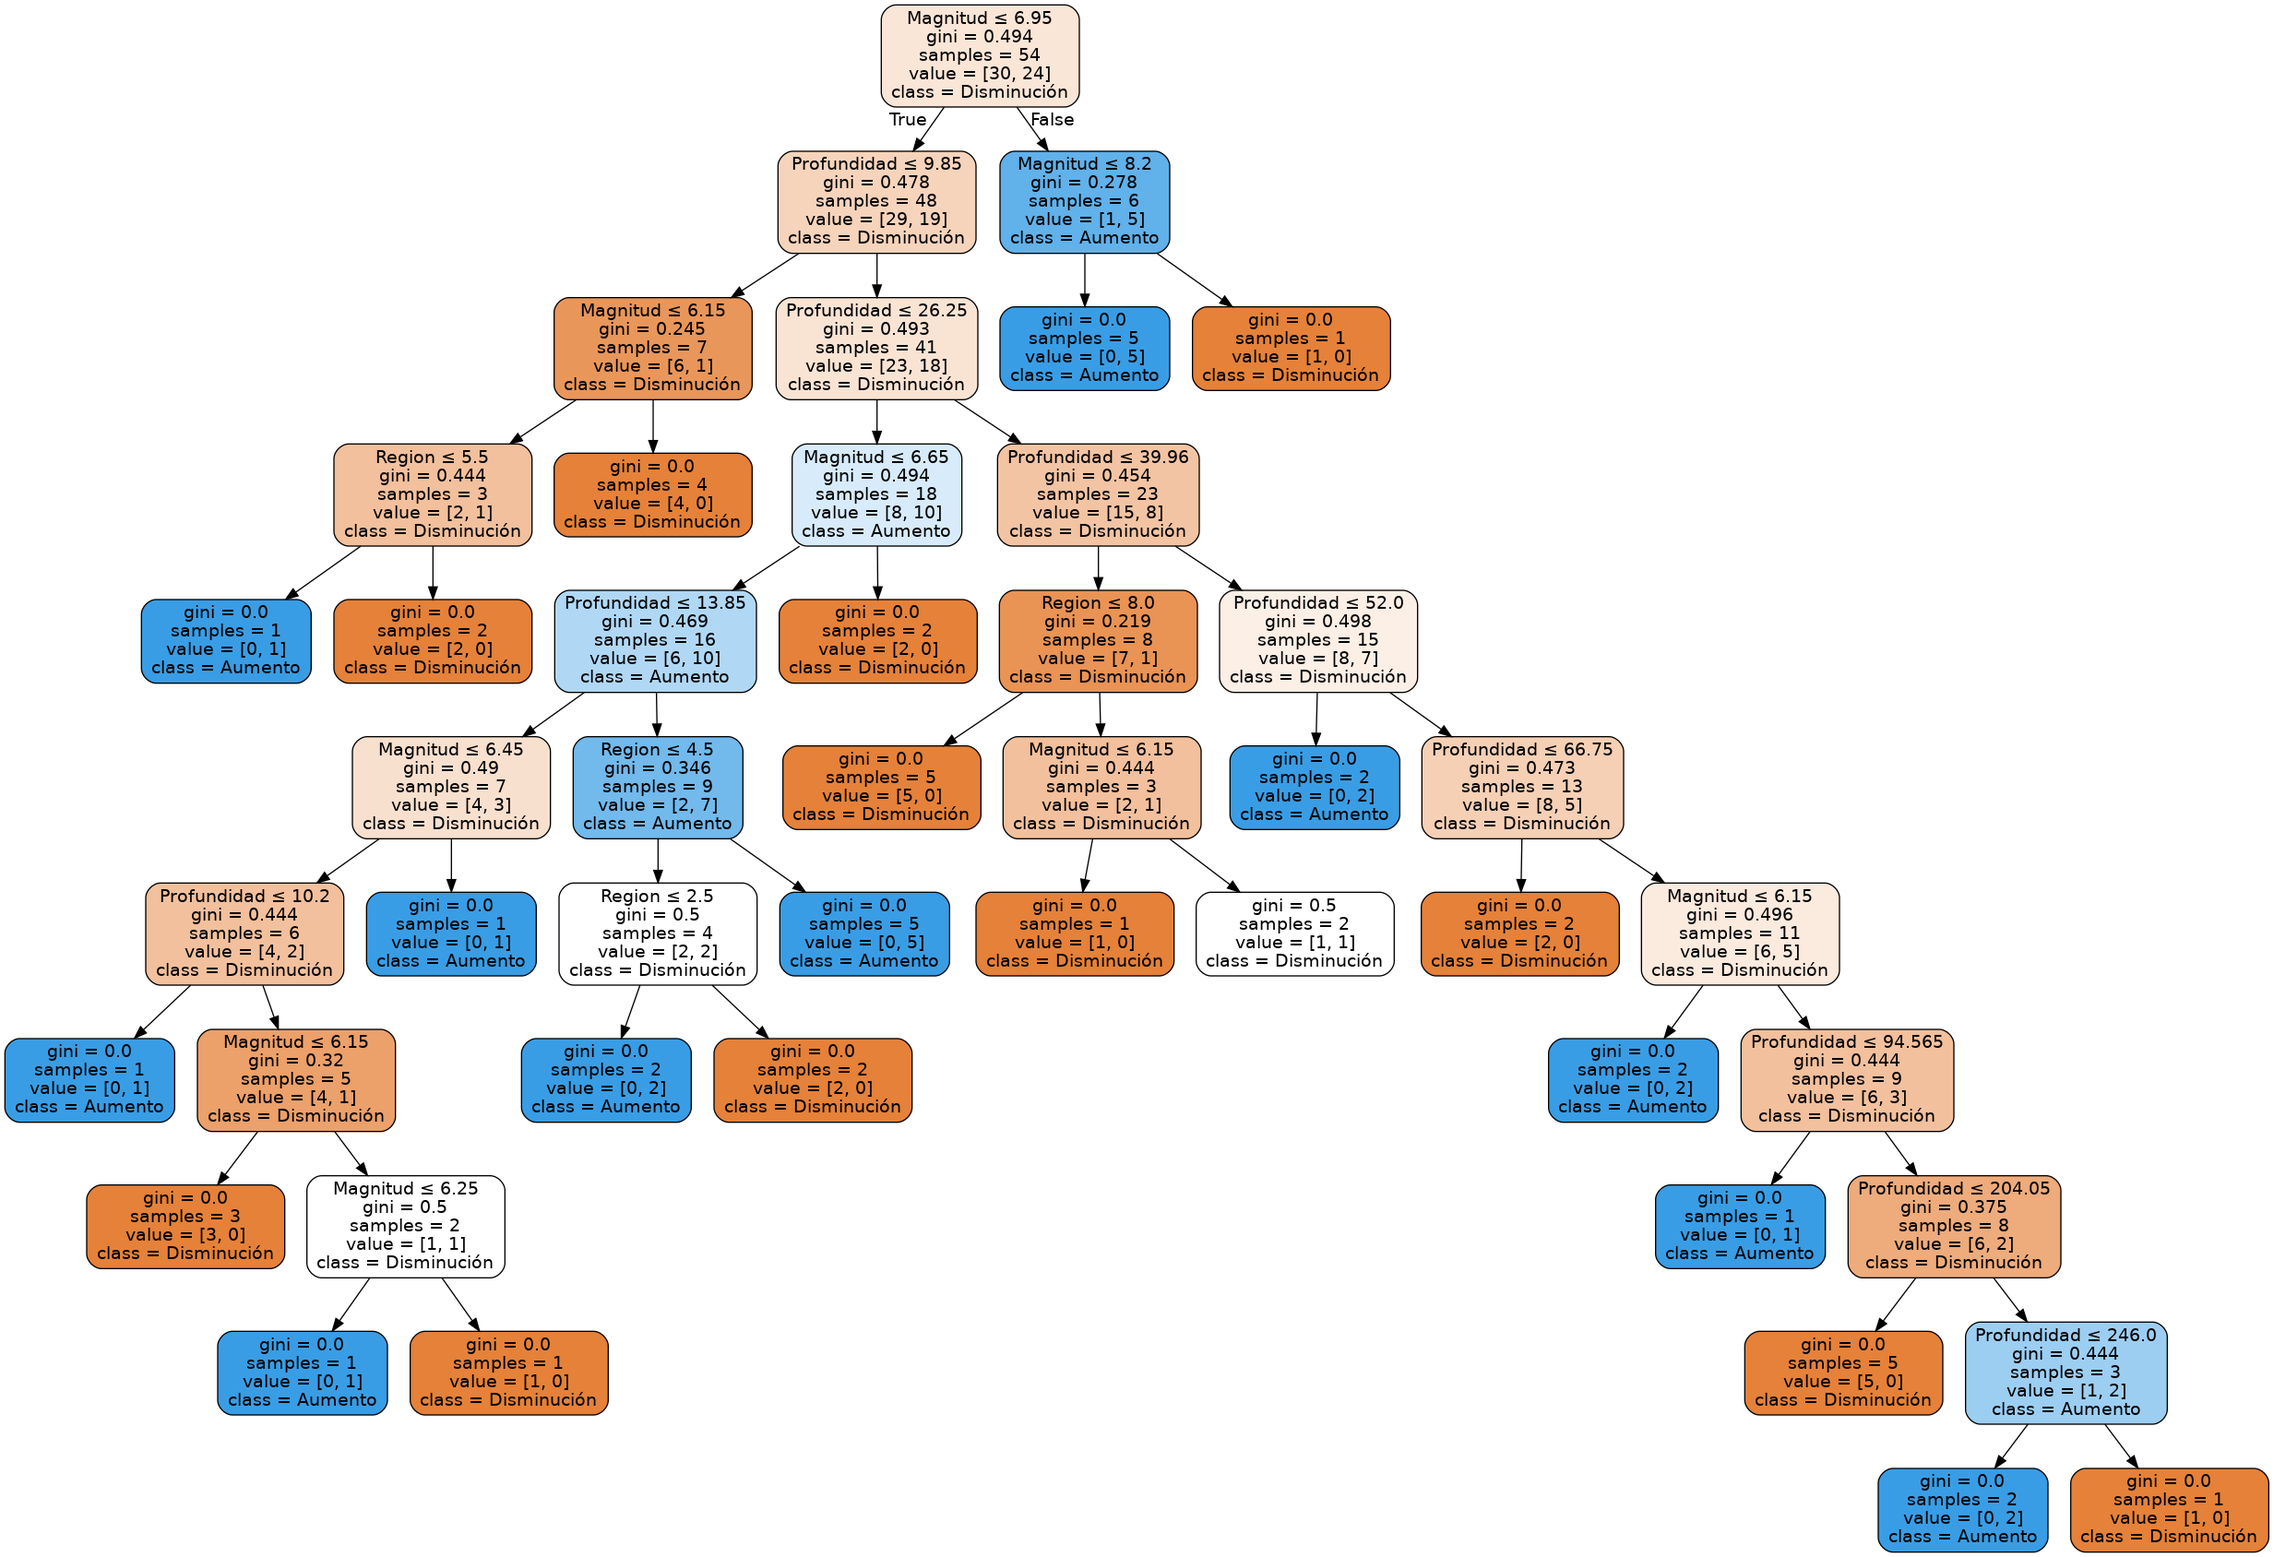
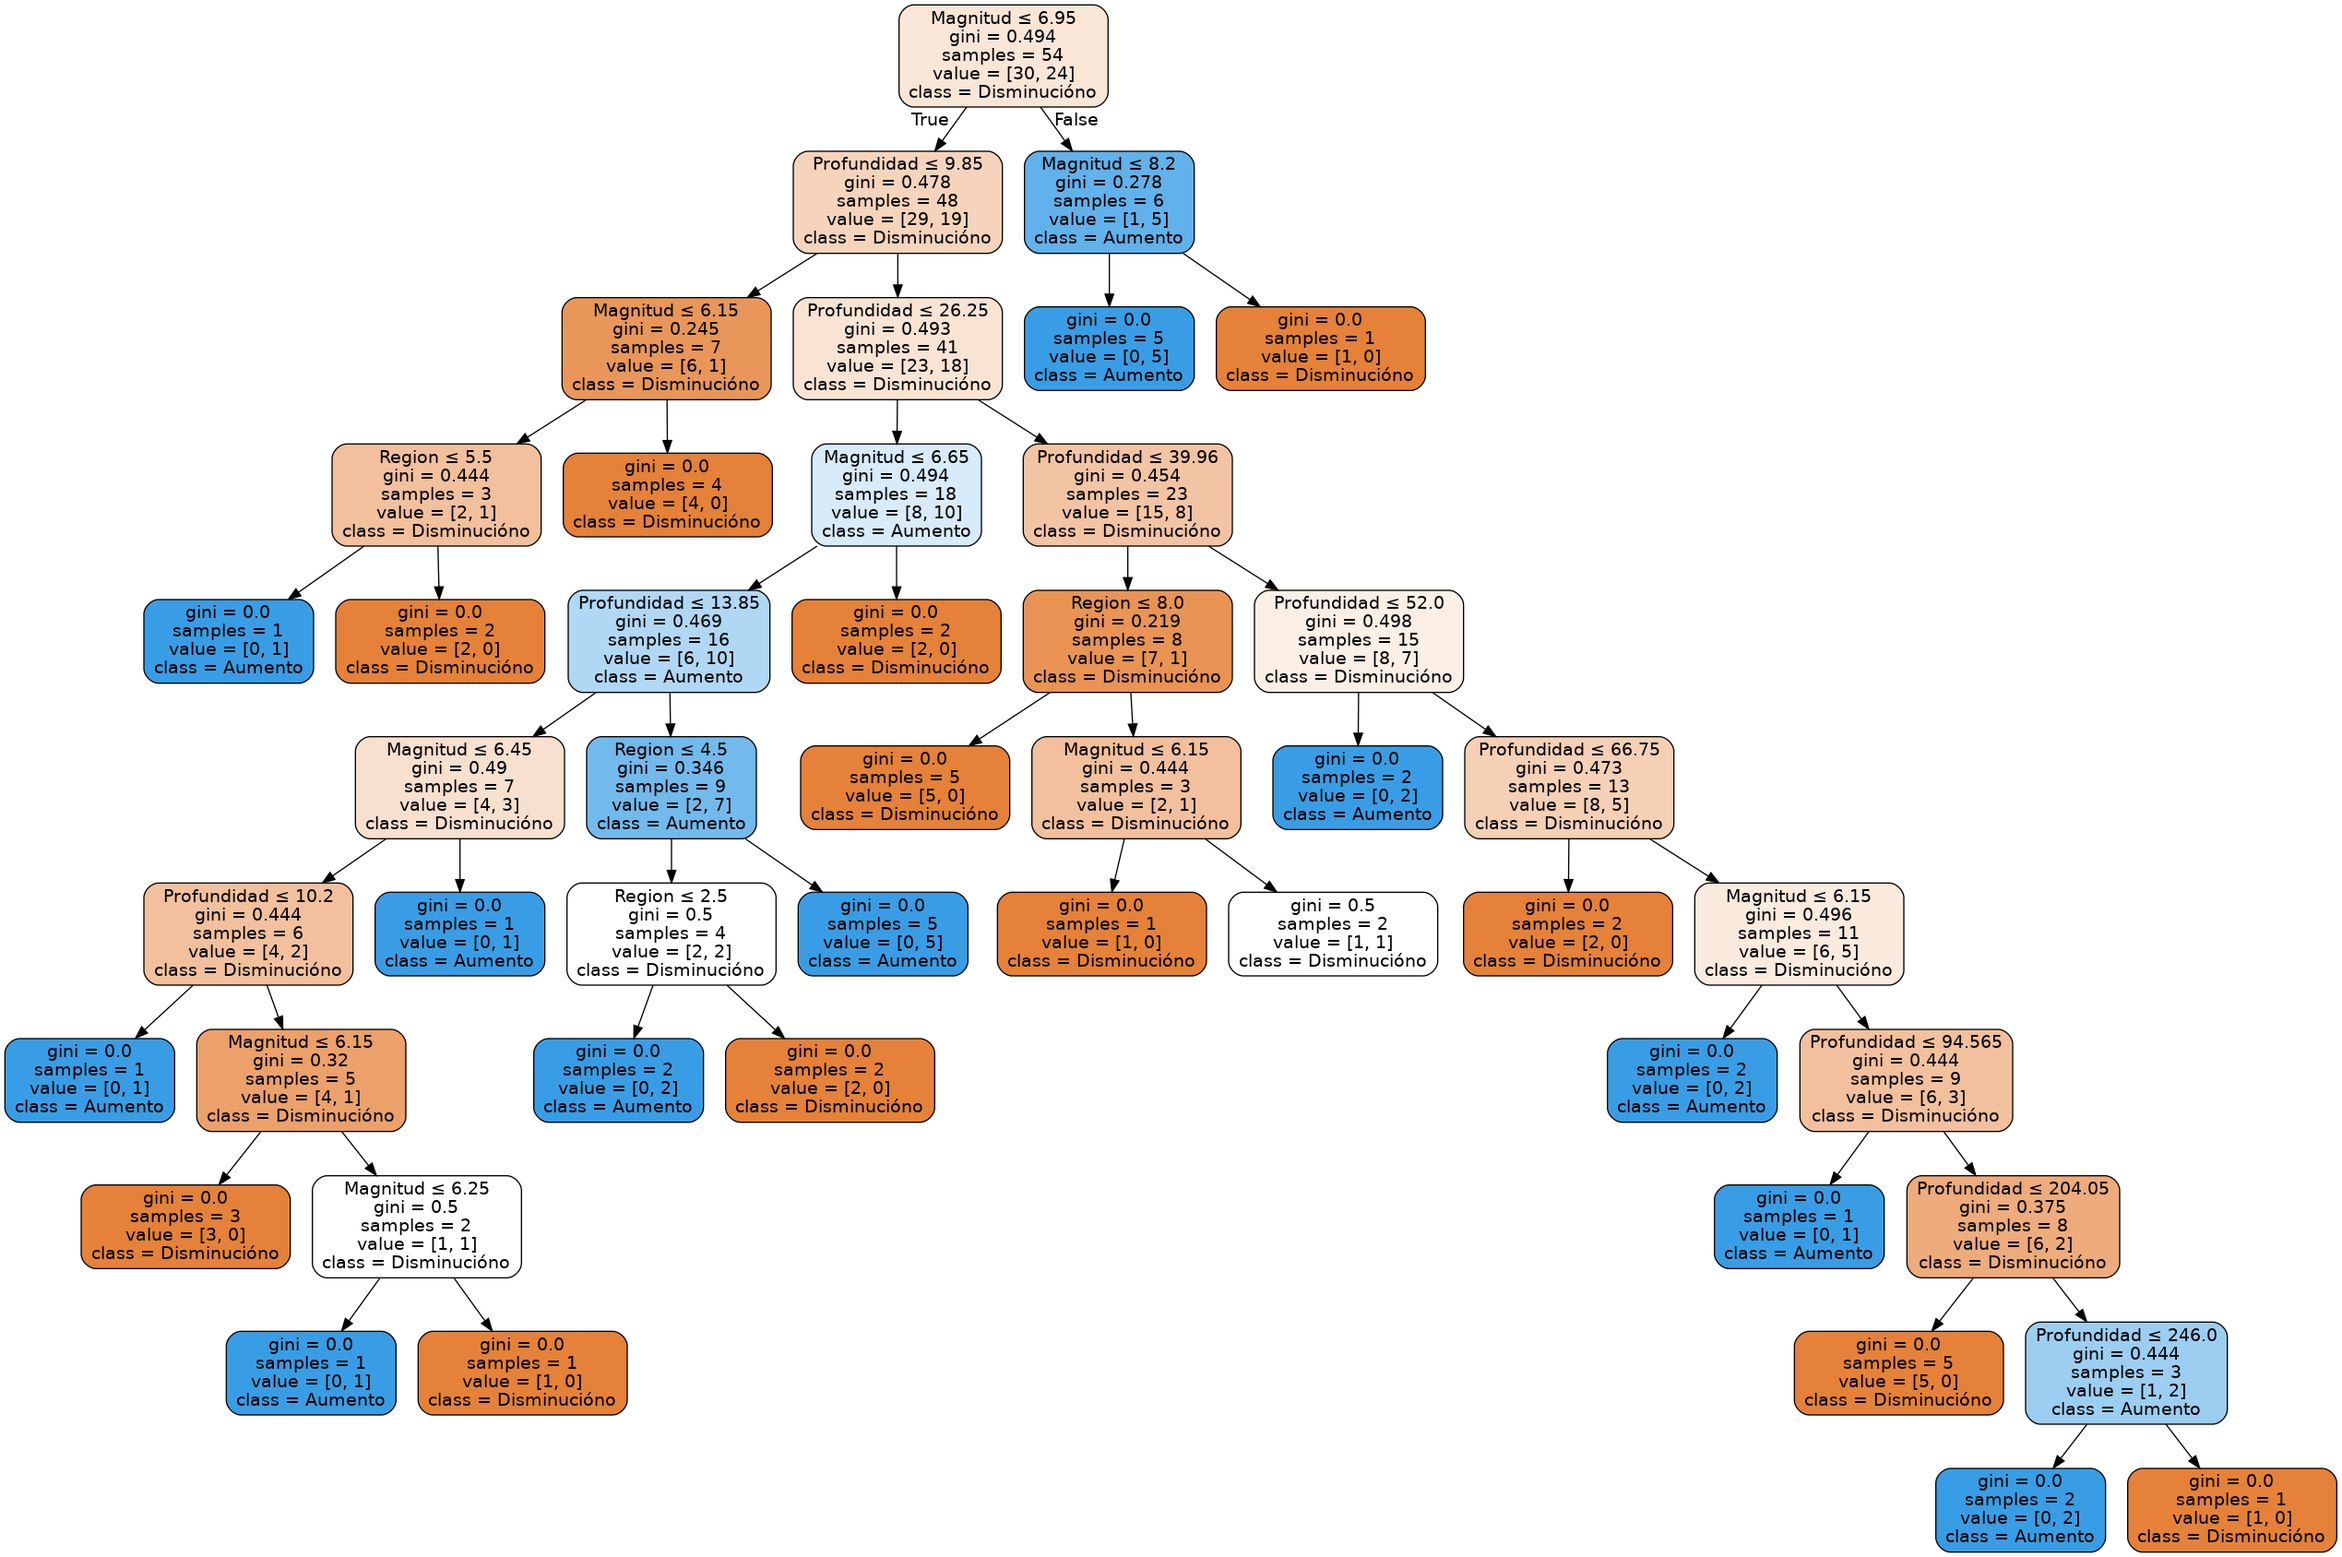
Clasificador que considera región (está malo)

Changed region(s): [[0.0, 0.0, 0.9996, 1.0], [0.0937, 0.8626, 0.2499, 0.9242]]

diff --git a/src/hito2/Clasificador/competencia_arboles_clasificacion.py b/src/hito2/Clasificador/competencia_arboles_clasificacion.py
@@ -1,0 +1,66 @@
+import numpy as np
+import pandas as pd
+
+from sklearn.tree import DecisionTreeClassifier
+from sklearn.metrics import accuracy_score
+from sklearn.metrics import classification_report
+from sklearn.model_selection import train_test_split
+from sklearn.model_selection import GridSearchCV
+
+
+pruebas= ["5_7d", "6_7d", "7_7d", "5_14d", "5_7d_desh"]
+
+
+for p in pruebas:
+    print(type(p))
+    X= pd.read_csv("X" + p + ".csv");
+    y= pd.read_csv("y" + p + ".csv");
+
+    X_train, X_test, y_train, y_test = train_test_split(X, y, test_size=.33, random_state=9, stratify=y)
+    
+    print("Batería de tests: " + p)
+    print()
+
+    tuned_parameters = {'criterion': ['gini','entropy'], 'max_depth': [1,3,5]}
+
+    score = 'precision'
+    clf = GridSearchCV(DecisionTreeClassifier(), param_grid=tuned_parameters, cv=5,
+                           scoring=score)
+    clf.fit(X_train, y_train)
+    print("#####################################################") 
+    print("Mejor combinación de parámetros para atributo " + score)
+    print(clf.best_params_)
+    y_true, y_pred = y_test, clf.predict(X_test)
+    print(classification_report(y_true, y_pred))
+    print()
+    print("#####################################################") 
+    print()
+
+
+    score = 'accuracy'
+    clf = GridSearchCV(DecisionTreeClassifier(), param_grid=tuned_parameters, cv=5,
+                           scoring=score)
+    clf.fit(X_train, y_train)
+    print("#####################################################") 
+    print("Mejor combinación de parámetros para atributo " + score)
+    print(clf.best_params_)
+    y_true, y_pred = y_test, clf.predict(X_test)
+    print(classification_report(y_true, y_pred))
+    print()
+    print("#####################################################") 
+    print()
+
+
+    score = 'recall'
+    clf = GridSearchCV(DecisionTreeClassifier(), param_grid=tuned_parameters, cv=5,
+                           scoring=score)
+    clf.fit(X_train, y_train)
+    print("#####################################################") 
+    print("Mejor combinación de parámetros para atributo " + score)
+    print(clf.best_params_)
+    y_true, y_pred = y_test, clf.predict(X_test)
+    print(classification_report(y_true, y_pred))
+    print()
+    print("#####################################################") 
+    print()
+

diff --git a/src/hito2/Clasificador/clasificador_sismos_etas.py b/src/hito2/Clasificador/clasificador_sismos_etas.py
@@ -14,9 +14,6 @@ from sklearn.tree import export_graphviz
 from sklearn import tree
 import pydotplus
 
-#import os
-#os.environ['PATH'] = os.environ['PATH'] + ';' + r"/home/cllullt/Documents/Universidad/Intro_Minería_de_datos/mineria_datos/bin/graphviz"
-
 
 def exportTreeImage(dtree, X, y, path):
     # Create dot data
@@ -25,8 +22,6 @@ def exportTreeImage(dtree, X, y, path):
             rounded=True, special_characters=True,
             feature_names=X.columns.tolist(),
             class_names=['Disminucióno','Aumento'])
-
-#            class_names=array(['Aumento'], dtype='<U10'))
 
     # Draw graph
     graph = pydotplus.graph_from_dot_data(dot_data)
@@ -37,13 +32,6 @@ def exportTreeImage(dtree, X, y, path):
     # Create PNG
     graph.write_png(path)
     
-#    dot_data = StringIO()
-#    export_graphviz(dtree, out_file=dot_data, filled=True,
-#            rounded=True, special_characters=True)
-#    graph = pydotplus.graph_from_dot_data(dot_data.getvalue())
-#    Image(graph.create_png())
-#    graph.write_png(path)
-
 
 pruebas= ["5_7d", "6_7d", "7_7d", "5_14d", "5_7d_desh"]
 
@@ -64,11 +52,11 @@ for p in pruebas:
     print(classification_report(y_test, y_pred))
 
     # Supuestamente imprime atributos del árbol
-    print("Atributos del árbol en formato lista:")
-    print(clf.get_params())
+    #print("Atributos del árbol en formato lista:")
+    #print(clf.get_params())
 
     # Exportar árbol
-    exportTreeImage(clf, X, y, p + ".png")
+    #exportTreeImage(clf, X, y, p + ".png")
 
     print("Batería de tests")
     print()
